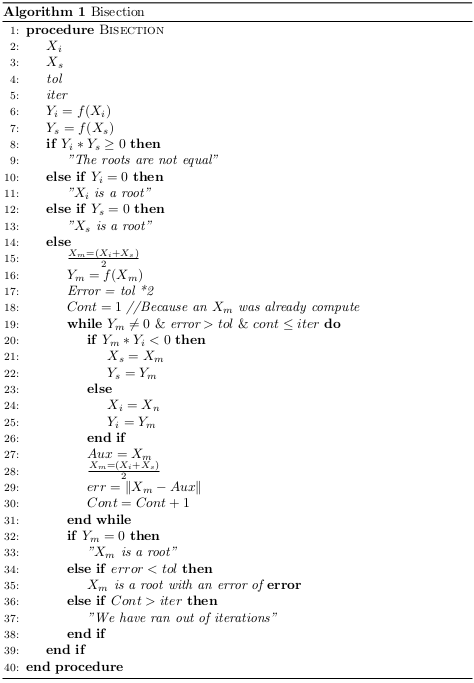
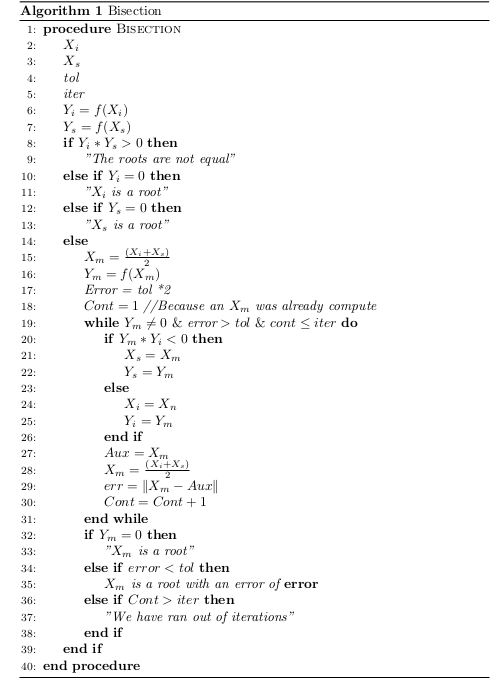
Correction in the bisection pseudocode, change from 'Greater or  Equals than' to just 'Greater than'

Changed region(s): [[0.0, 0.0, 1.0, 1.0]]

diff --git a/latex files/bisection/pseudocode/bisection.tex b/latex files/bisection/pseudocode/bisection.tex
@@ -21,7 +21,7 @@
 \State $\textit{iter}$\;
 \State $Y_i=f(X_i)$\;
 \State$Y_s=f(X_s)$\;
-	\If{$Y_i * Y_s \geq 0$}
+	\If{$Y_i * Y_s > 0$}
 		\State $\textit{"The roots are not equal"}$
 	\ElsIf{$Y_i=0$}
 		\State $\textit{"$X_i$ is a root"}$
